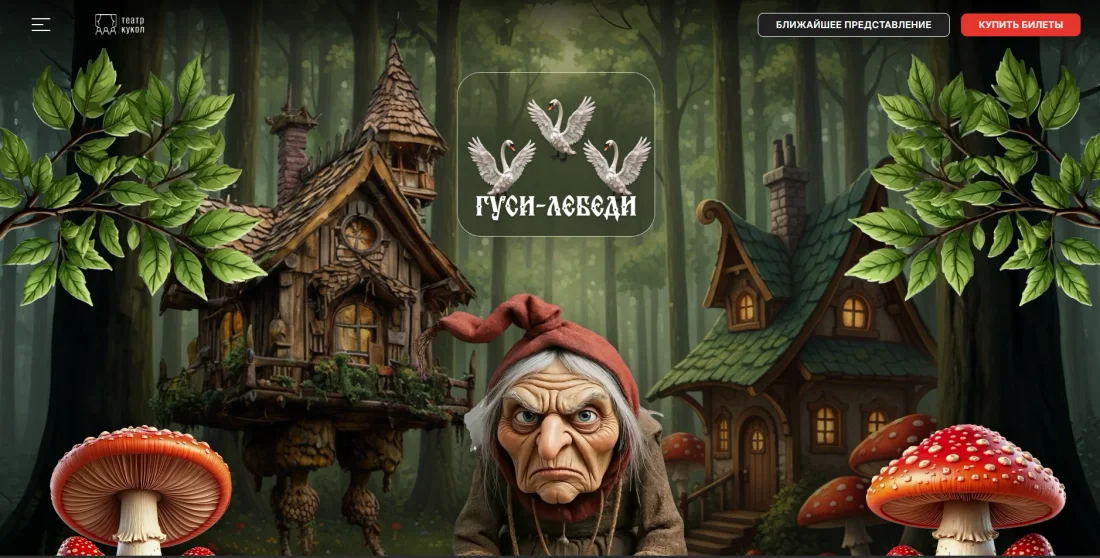
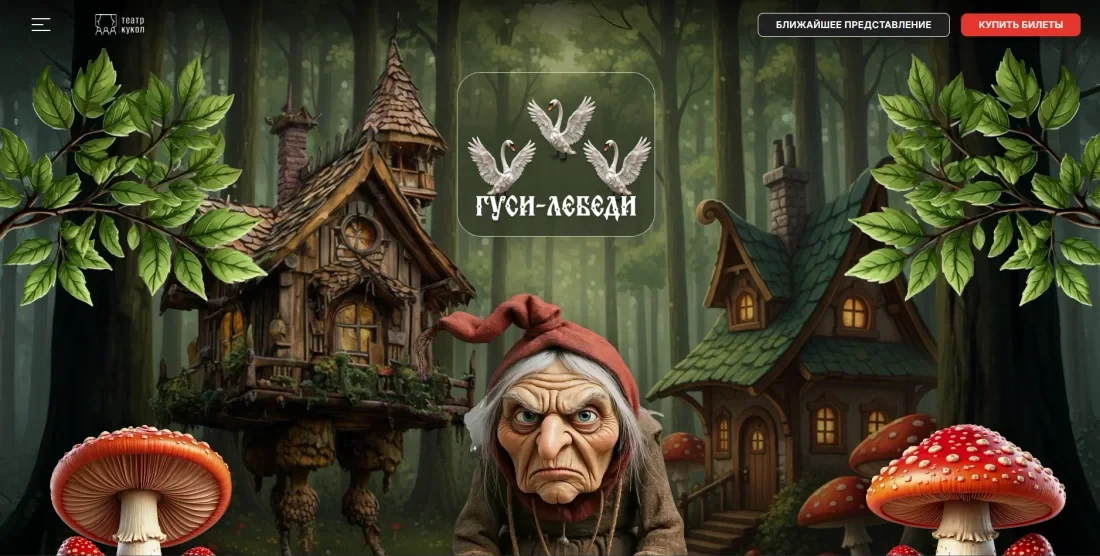
Блок 10: убраны лишние полосы по краям скриншотов сайтов, поля узких кадров Флориса — полупрозрачные цвета плашек

diff --git a/index.html b/index.html
@@ -18,7 +18,7 @@
 <link rel="preconnect" href="https://fonts.gstatic.com" crossorigin>
 <link href="https://fonts.googleapis.com/css2?family=Inter:ital,wght@0,300;0,400;0,500;0,700;1,300;1,400&family=Playfair+Display:ital,wght@1,500&family=Great+Vibes&family=Cormorant+Garamond:wght@300;400;500&family=Tenor+Sans&display=swap" rel="stylesheet">
 <link rel="preload" as="image" href="img/person.webp?v=2">
-<link rel="stylesheet" href="styles.css?v=270">
+<link rel="stylesheet" href="styles.css?v=271">
 </head>
 <body>
 <!-- Общая шапка для всего сайта: бургер-меню и монограмма слева, кнопка «Связаться со мной» справа -->
@@ -477,27 +477,27 @@
   </ul>
   <div class="sites__stage">
     <div class="sites__carousel" role="group" aria-label="Флорис — сайт цветочного магазина">
-      <div class="sites__cell"><img class="sites__face" src="img/sites/floris-3.webp" alt="Флорис: главный экран «Свежие авторские букеты»" loading="lazy" draggable="false"></div>
-      <div class="sites__cell"><img class="sites__face" src="img/sites/floris-1.webp" alt="Флорис: «Хиты сезона»" loading="lazy" draggable="false"></div>
-      <div class="sites__cell"><img class="sites__face" src="img/sites/floris-2.webp" alt="Флорис: «Свадебные букеты»" loading="lazy" draggable="false"></div>
-      <div class="sites__cell"><img class="sites__face" src="img/sites/floris-4.webp" alt="Флорис: «Букеты для любого повода»" loading="lazy" draggable="false"></div>
+      <div class="sites__cell"><img class="sites__face" src="img/sites/floris-3.webp?v=2" alt="Флорис: главный экран «Свежие авторские букеты»" loading="lazy" draggable="false"></div>
+      <div class="sites__cell"><img class="sites__face sites__face--fit" src="img/sites/floris-1.webp?v=2" alt="Флорис: «Хиты сезона»" loading="lazy" draggable="false"></div>
+      <div class="sites__cell"><img class="sites__face sites__face--fit" src="img/sites/floris-2.webp?v=2" alt="Флорис: «Свадебные букеты»" loading="lazy" draggable="false"></div>
+      <div class="sites__cell"><img class="sites__face" src="img/sites/floris-4.webp?v=2" alt="Флорис: «Букеты для любого повода»" loading="lazy" draggable="false"></div>
     </div>
     <div class="sites__carousel" role="group" aria-label="Nikonovphoto — сайт фотографа">
-      <div class="sites__cell"><img class="sites__face" src="img/sites/niko-1.webp" alt="Nikonovphoto: главный экран с подписью" loading="lazy" draggable="false"></div>
-      <div class="sites__cell"><img class="sites__face" src="img/sites/niko-2.webp" alt="Nikonovphoto: «Моменты, которые останутся с вами навсегда»" loading="lazy" draggable="false"></div>
-      <div class="sites__cell"><img class="sites__face" src="img/sites/niko-3.webp" alt="Nikonovphoto: галерея-выставка" loading="lazy" draggable="false"></div>
-      <div class="sites__cell"><img class="sites__face" src="img/sites/niko-4.webp" alt="Nikonovphoto: «Мой подход»" loading="lazy" draggable="false"></div>
+      <div class="sites__cell"><img class="sites__face" src="img/sites/niko-1.webp?v=2" alt="Nikonovphoto: главный экран с подписью" loading="lazy" draggable="false"></div>
+      <div class="sites__cell"><img class="sites__face" src="img/sites/niko-2.webp?v=2" alt="Nikonovphoto: «Моменты, которые останутся с вами навсегда»" loading="lazy" draggable="false"></div>
+      <div class="sites__cell"><img class="sites__face" src="img/sites/niko-3.webp?v=2" alt="Nikonovphoto: галерея-выставка" loading="lazy" draggable="false"></div>
+      <div class="sites__cell"><img class="sites__face" src="img/sites/niko-4.webp?v=2" alt="Nikonovphoto: «Мой подход»" loading="lazy" draggable="false"></div>
     </div>
     <div class="sites__carousel" role="group" aria-label="Театр кукол — сайт театра кукол">
-      <div class="sites__cell"><img class="sites__face" src="img/sites/theatre-2.webp" alt="Театр кукол: главный экран «Гуси-лебеди»" loading="lazy" draggable="false"></div>
-      <div class="sites__cell"><img class="sites__face" src="img/sites/theatre-1.webp" alt="Театр кукол: «О театре»" loading="lazy" draggable="false"></div>
-      <div class="sites__cell"><img class="sites__face" src="img/sites/theatre-3.webp" alt="Театр кукол: «Ближайшие представления»" loading="lazy" draggable="false"></div>
-      <div class="sites__cell"><img class="sites__face" src="img/sites/theatre-4.webp" alt="Театр кукол: спектакль «Айболит»" loading="lazy" draggable="false"></div>
+      <div class="sites__cell"><img class="sites__face" src="img/sites/theatre-2.webp?v=2" alt="Театр кукол: главный экран «Гуси-лебеди»" loading="lazy" draggable="false"></div>
+      <div class="sites__cell"><img class="sites__face" src="img/sites/theatre-1.webp?v=2" alt="Театр кукол: «О театре»" loading="lazy" draggable="false"></div>
+      <div class="sites__cell"><img class="sites__face" src="img/sites/theatre-3.webp?v=2" alt="Театр кукол: «Ближайшие представления»" loading="lazy" draggable="false"></div>
+      <div class="sites__cell"><img class="sites__face" src="img/sites/theatre-4.webp?v=2" alt="Театр кукол: спектакль «Айболит»" loading="lazy" draggable="false"></div>
     </div>
   </div>
   <!-- отзыв Евгения Никонова — как отзыв Светланы Клок в блоке 7: главный экран его сайта, имя и ниша, скриншот сообщения -->
   <figure class="sites__review">
-    <img class="sites__shot" src="img/sites/niko-1.webp" width="1100" height="563" alt="Главный экран сайта Nikonovphoto" loading="lazy">
+    <img class="sites__shot" src="img/sites/niko-1.webp?v=2" width="1100" height="563" alt="Главный экран сайта Nikonovphoto" loading="lazy">
     <figcaption class="sites__by"><b>Никонов Евгений</b><span>сайт портфолио фотографа</span></figcaption>
     <img class="sites__quote" src="img/sites/review-niko.webp" width="689" height="187" alt="Отзыв Евгения Никонова: «Отзыв: созвонился с Людмилой с просьбой сделать сайт портфолио фотографа. Всегда были на связи. Людмила постоянно задавала вопросы и предлагала решения для портфолио. В итоге сайт получился визуально интересным и функциональным. Очень рекомендую»" loading="lazy">
   </figure>

diff --git a/styles.css b/styles.css
@@ -1172,8 +1172,10 @@ a { color: inherit; text-decoration: none; }
   position: absolute; left: calc(1271 * var(--u)); top: calc(537 * var(--u)); width: var(--w); height: var(--h); margin: calc(var(--h) / -2) 0 0 calc(var(--w) / -2);
   transform-style: preserve-3d; will-change: transform; visibility: hidden; }
 .sites__cell { position: absolute; inset: 0; transform-style: preserve-3d; }
-/* кадр — целиком, без обрезки; обратной стороны нет */
-.sites__face { display: block; width: 100%; height: 100%; object-fit: contain; background: #0C120D; backface-visibility: hidden; -webkit-backface-visibility: hidden; opacity: 0; -webkit-user-drag: none; }
+/* кадр заполняет экран карусели (пропорции широких кадров почти совпадают с ним — ничего важного не срезается); обратной стороны нет */
+.sites__face { display: block; width: 100%; height: 100%; object-fit: cover; background: transparent; backface-visibility: hidden; -webkit-backface-visibility: hidden; opacity: 0; -webkit-user-drag: none; }
+/* узкие кадры Флориса — целиком, поля по бокам полупрозрачные, цвета плашек-овалов */
+.sites__face--fit { object-fit: contain; background: rgba(200, 189, 171, .12); }
 /* отзыв: главный экран сайта (792, 821, 240×145), под ним имя и ниша; справа — скриншот сообщения (1063, 824, 711×193) */
 .sites__review { position: absolute; z-index: 3; left: calc(792 * var(--u)); top: calc(821 * var(--u)); width: calc(982 * var(--u)); margin: 0;
   display: grid; grid-template-columns: calc(240 * var(--u)) 1fr; column-gap: calc(31 * var(--u)); align-items: start; }
